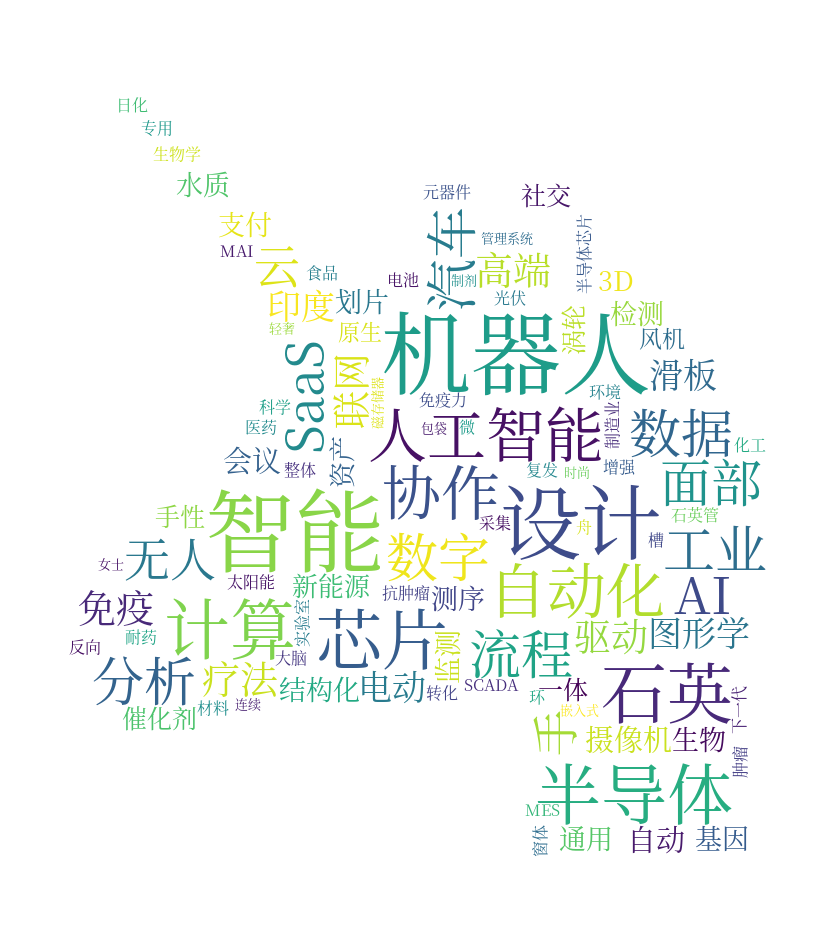
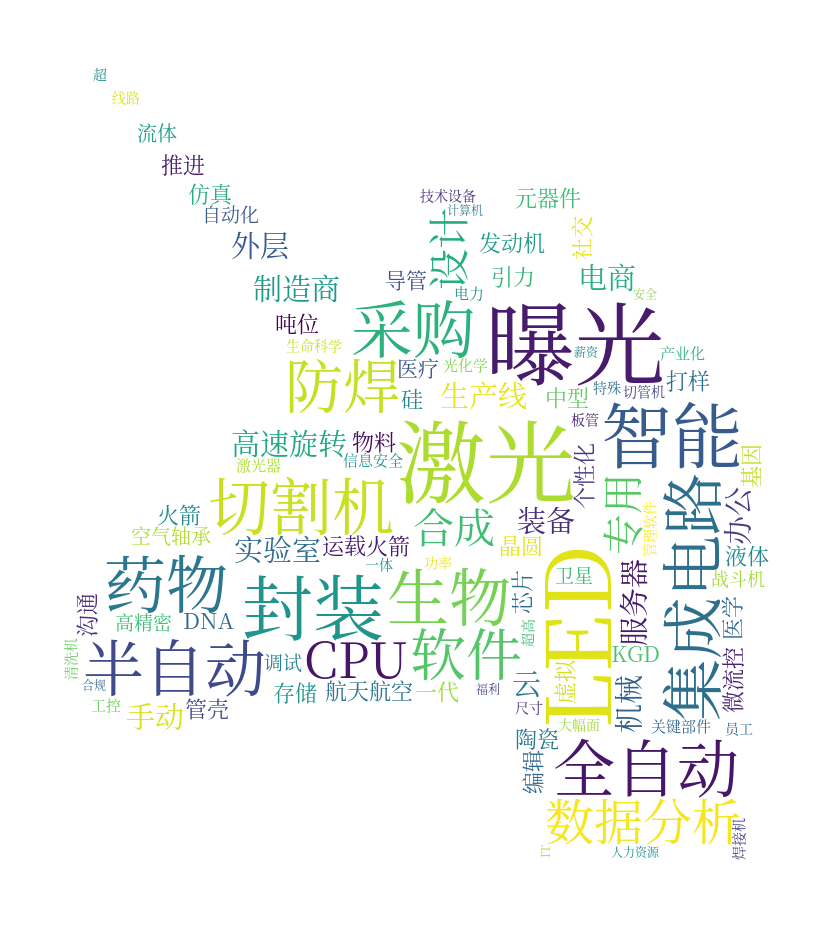
Update fin info

Changed region(s): [[0.0619, 0.0929, 0.9286, 0.9295], [0.0929, 0.062, 0.1238, 0.0929]]

diff --git a/fin-inv-zh.html b/fin-inv-zh.html
@@ -114,7 +114,7 @@
         <h1 class="fh5co-heading-colored">Financing & Investment</h1>
 
         <div>by
-                <a href="author/iris.html">Iris</a> - Sat, 7 May 2022
+                <a href="author/iris.html">Iris</a> - Sat, 2 June 2022
         </div>
 
             <div><span>Tags: </span>
@@ -124,19 +124,9 @@
             </div>
 
         <div class="animate-box" data-animate-effect="fadeInLeft">
-            <p class="animate-box" data-animate-effect="fadeInLeft"><p>Period: 2022/04/18 - 2022/05/01 (2 weeks)    </p>
-<h4>2022/04/18 - 2022/04/24</h4>
+            <p class="animate-box" data-animate-effect="fadeInLeft"><p>Period: 2022/05/02 - 2022/05/31 </p>
 <hr>
-<p><img alt="all_1" src="./images/all_1.png" width="100%">
-<img alt="all_2" src="./images/all_2.png" width="100%"></p>
-<p><img alt="suzhou_1" src="./images/suzhou_1.png" width="100%">
-<img alt="suzhou_1" src="./images/suzhou_2.png" width="100%"></p>
-<h4>2022/04/25 - 2022/05/01</h4>
-<hr>
-<p><img alt="all_3" src="./images/all_3.png" width="100%">
-<img alt="all_4" src="./images/all_4.png" width="100%"></p>
-<img alt="suzhou_3" src="./images/suzhou_3.png" width="100%"></p>
-<h2>投融资词云(2022 年 4 月)</h2>
+<h2>投融资词云(2022 年 5 月)</h2>
 <p><img alt="词云" src="./images/词云.png" width="80%"></p></p>
         </div>
     </div>
